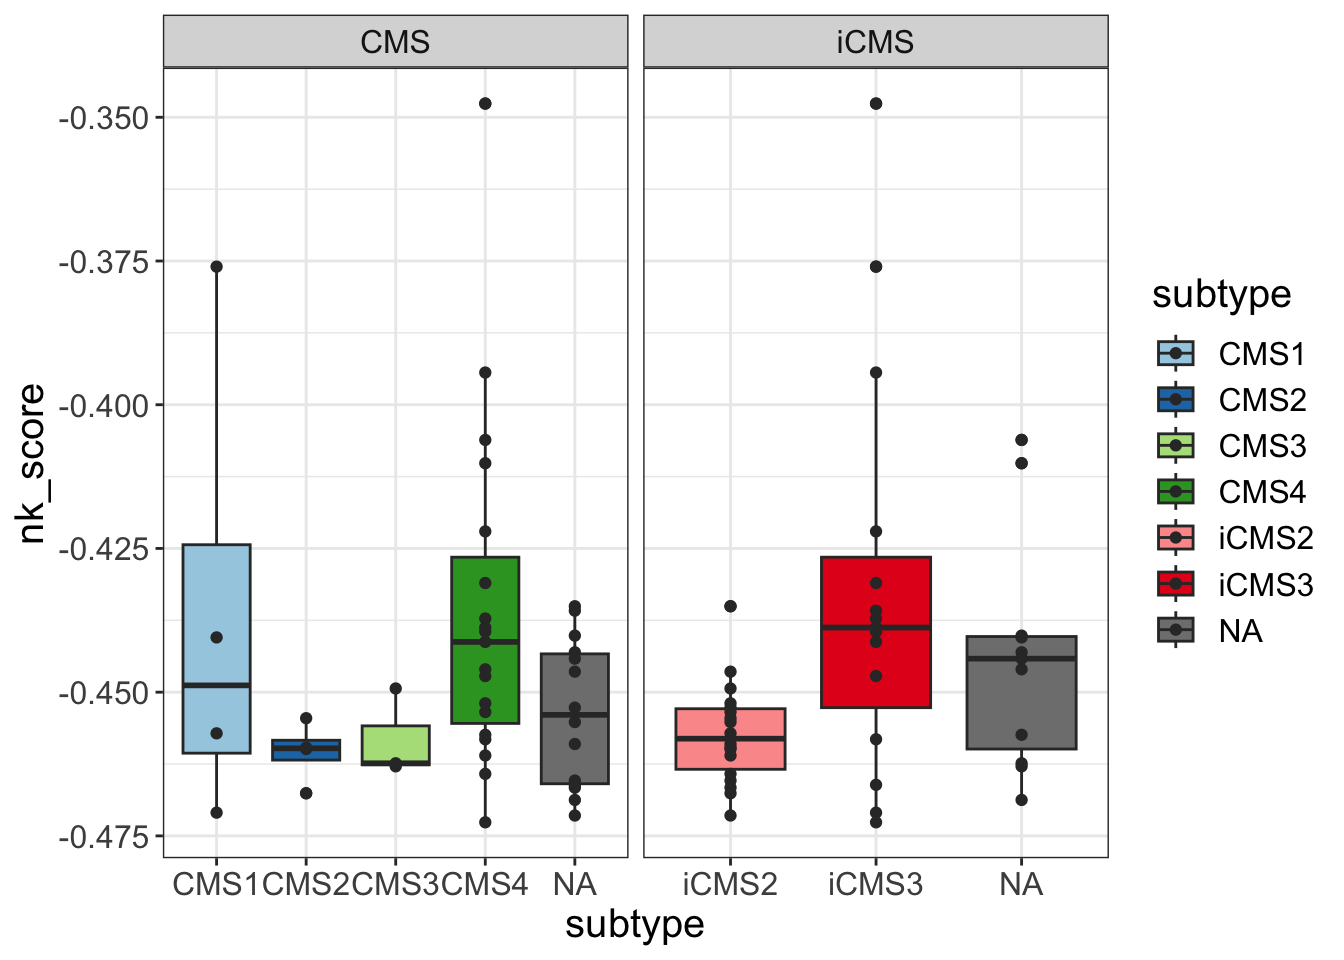
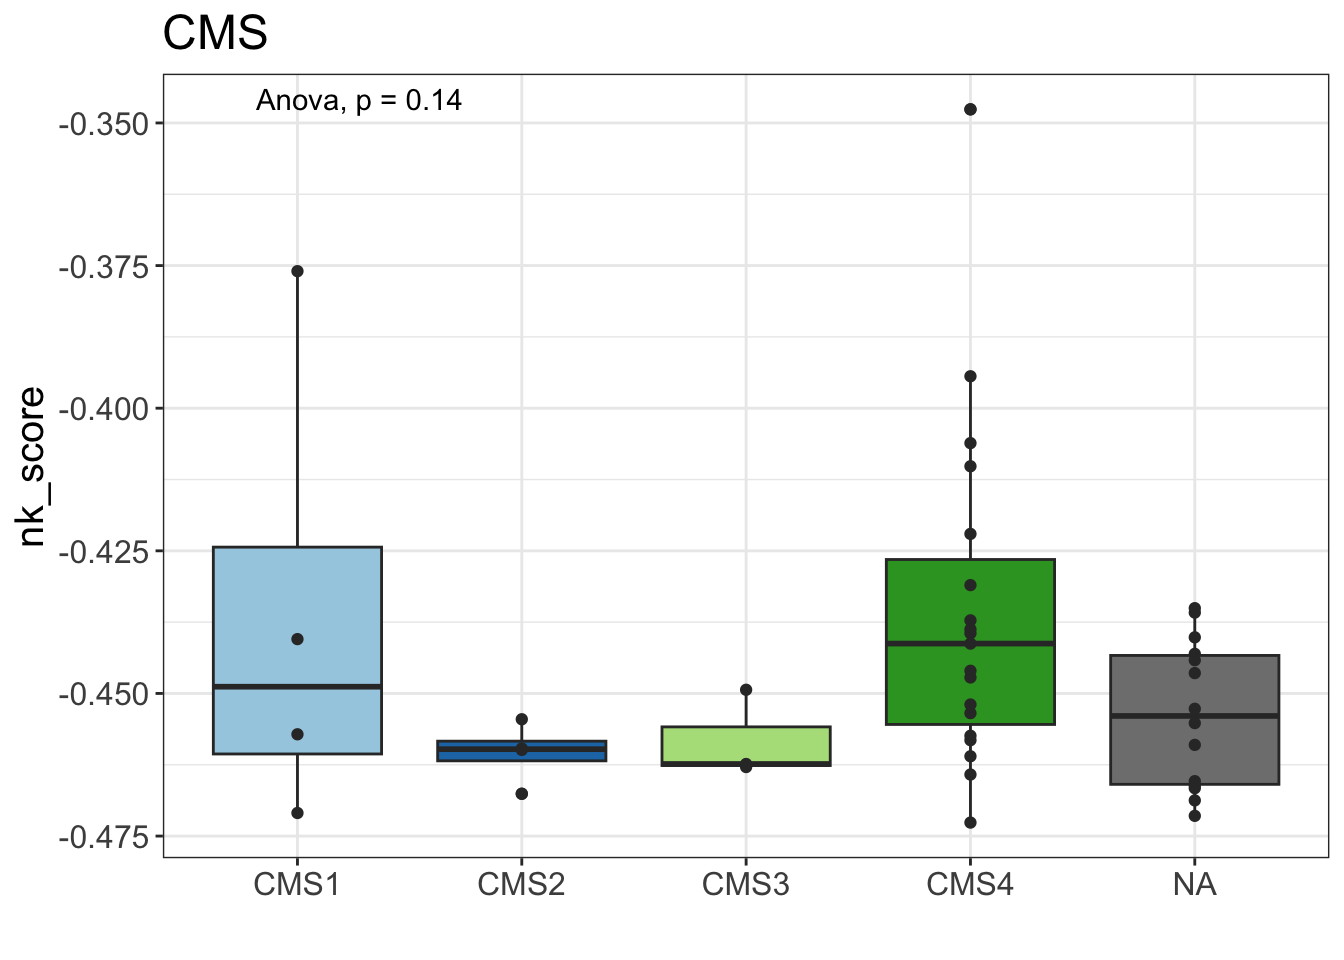
Build site.

diff --git a/docs/CRLM_Subtyping.html b/docs/CRLM_Subtyping.html
@@ -521,15 +521,15 @@ project makes it easier to run your code on other machines.</p>
 <div class="panel panel-default">
 <div class="panel-heading">
 <p class="panel-title">
-<a data-toggle="collapse" data-parent="#workflowr-checks" href="#strongRepositoryversionstrongahrefhttpsgithubcomrobinawagnerNKCRLMtree086dc970d61f95110a4d5944db50fdab08da7d3ftargetblank086dc97a">
+<a data-toggle="collapse" data-parent="#workflowr-checks" href="#strongRepositoryversionstrongahrefhttpsgithubcomrobinawagnerNKCRLMtree5f806afd4a0e3332845dca016ce51f0d60a3547atargetblank5f806afa">
 <span class="glyphicon glyphicon-ok text-success"
 aria-hidden="true"></span> <strong>Repository version:</strong>
-<a href="https://github.com/robin-a-wagner/NK_CRLM/tree/086dc970d61f95110a4d5944db50fdab08da7d3f" target="_blank">086dc97</a>
+<a href="https://github.com/robin-a-wagner/NK_CRLM/tree/5f806afd4a0e3332845dca016ce51f0d60a3547a" target="_blank">5f806af</a>
 </a>
 </p>
 </div>
 <div
[2 lines of base64/hex data omitted]
 class="panel-collapse collapse">
 <div class="panel-body">
 <p>
@@ -539,7 +539,7 @@ reproducibility.
 </p>
 <p>
 The results in this page were generated with repository version
-<a href="https://github.com/robin-a-wagner/NK_CRLM/tree/086dc970d61f95110a4d5944db50fdab08da7d3f" target="_blank">086dc97</a>.
+<a href="https://github.com/robin-a-wagner/NK_CRLM/tree/5f806afd4a0e3332845dca016ce51f0d60a3547a" target="_blank">5f806af</a>.
 See the <em>Past versions</em> tab to see a history of the changes made
 to the R Markdown and HTML files.
 </p>
@@ -611,6 +611,41 @@ Message
 </tr>
 </thead>
 <tbody>
+<tr>
+<td>
+Rmd
+</td>
+<td>
+<a href="https://github.com/robin-a-wagner/NK_CRLM/blob/5f806afd4a0e3332845dca016ce51f0d60a3547a/analysis/CRLM_Subtyping.Rmd" target="_blank">5f806af</a>
+</td>
+<td>
+Robin Wagner (UoM Laptop)
+</td>
+<td>
+2023-08-24
+</td>
+<td>
+Added stat tests to final subtype boxplots, had to pull apart into two
+graphs
+</td>
+</tr>
+<tr>
+<td>
+html
+</td>
+<td>
+<a href="https://rawcdn.githack.com/robin-a-wagner/NK_CRLM/82af4bd781dd552f2c31b7f9fd2876d0da574891/docs/CRLM_Subtyping.html" target="_blank">82af4bd</a>
+</td>
+<td>
+Robin Wagner (UoM Laptop)
+</td>
+<td>
+2023-08-24
+</td>
+<td>
+Build site.
+</td>
+</tr>
 <tr>
 <td>
 html
@@ -762,7 +797,8 @@ using the CMScaller package.</p>
 <pre class="r"><code>library(dplyr)
 library(CMScaller)
 library(ggplot2)
-library(RColorBrewer)</code></pre>
+library(RColorBrewer)
+library(ggpubr)</code></pre>
 <div id="prepare-data" class="section level3">
 <h3>Prepare data</h3>
 <p>Read in and prepare the raw counts data for the 58 samples.</p>
@@ -934,26 +970,26 @@ PDW486_LT        iCMS3 0.7684975 0.6398528 0.001000000 0.0017600</code></pre>
 <pre class="r"><code>plot_data &lt;- data.frame(sample = colnames(expr_norm$counts),
                         CMS = CMS$prediction,
                         iCMS = iCMS$prediction,
-                        nk_score = nk_score$score) %&gt;%
-  tidyr::gather(key = system, 
-         value = subtype,
-         c(&quot;CMS&quot;, &quot;iCMS&quot;)); head(plot_data)</code></pre>
-<pre><code>Warning: attributes are not identical across measure variables; they will be
-dropped</code></pre>
-<pre><code>       sample   nk_score system subtype
-1    JV388_LT -0.4628994    CMS    CMS3
-2    KG078_LT -0.4401634    CMS    &lt;NA&gt;
-3 PCC002_LT1a -0.4714542    CMS    &lt;NA&gt;
-4 PCC002_LT1b -0.4519359    CMS    CMS4
-5   PDO032_LT -0.4574141    CMS    CMS4
-6   PDW486_LT -0.4471963    CMS    CMS4</code></pre>
-<pre class="r"><code>ggplot(plot_data, aes(x = subtype, y = nk_score, fill = subtype)) + 
+                        nk_score = nk_score$score); head(plot_data)</code></pre>
+<pre><code>       sample  CMS  iCMS   nk_score
+1    JV388_LT CMS3  &lt;NA&gt; -0.4628994
+2    KG078_LT &lt;NA&gt;  &lt;NA&gt; -0.4401634
+3 PCC002_LT1a &lt;NA&gt; iCMS2 -0.4714542
+4 PCC002_LT1b CMS4 iCMS2 -0.4519359
+5   PDO032_LT CMS4  &lt;NA&gt; -0.4574141
+6   PDW486_LT CMS4 iCMS3 -0.4471963</code></pre>
+<pre class="r"><code>par(mfrow = c(2,1))
+
+ggplot(plot_data, aes(x = CMS, y = nk_score, fill = CMS)) + 
   geom_boxplot() + 
   geom_point(position = position_dodge(0.9), color = &quot;gray20&quot;) + 
-  facet_wrap(~system, scales = &quot;free_x&quot;) +
+  stat_compare_means(method = &quot;anova&quot;) +
   theme_bw() +
-  theme(text = element_text(size = 15)) +
-  scale_fill_manual(values = brewer.pal(8, &quot;Paired&quot;))</code></pre>
+  theme(text = element_text(size = 15),
+        legend.position = &quot;none&quot;) +
+  scale_fill_manual(values = brewer.pal(8, &quot;Paired&quot;)) +
+  labs(x = &quot;&quot;) +
+  ggtitle(&quot;CMS&quot;)</code></pre>
 <p><img src="figure/CRLM_Subtyping.Rmd/unnamed-chunk-11-1.png" width="672" style="display: block; margin: auto;" /></p>
 <p>
 <button type="button" class="btn btn-default btn-xs btn-workflowr btn-workflowr-fig" data-toggle="collapse" data-target="#fig-unnamed-chunk-11-1">
@@ -1003,6 +1039,17 @@ Robin Wagner (UoM Laptop)
 </table>
 </div>
 </div>
+<pre class="r"><code>ggplot(plot_data, aes(x = iCMS, y = nk_score, fill = iCMS)) + 
+  geom_boxplot() + 
+  geom_point(position = position_dodge(0.9), color = &quot;gray20&quot;) + 
+  stat_compare_means(method = &quot;t.test&quot;, comparisons = list(c(&quot;iCMS2&quot;, &quot;iCMS3&quot;))) +
+  theme_bw()  +
+  theme(text = element_text(size = 15),
+        legend.position = &quot;none&quot;) +
+  scale_fill_manual(values = brewer.pal(8, &quot;Paired&quot;)) +
+  labs(x = &quot;&quot;) +
+  ggtitle(&quot;iCMS&quot;)</code></pre>
+<p><img src="figure/CRLM_Subtyping.Rmd/unnamed-chunk-11-2.png" width="672" style="display: block; margin: auto;" /></p>
 <br>
 <p>
 <button type="button" class="btn btn-default btn-workflowr btn-workflowr-sessioninfo" data-toggle="collapse" data-target="#workflowr-sessioninfo" style="display: block;">
@@ -1030,25 +1077,27 @@ attached base packages:
 [1] stats     graphics  grDevices utils     datasets  methods   base     
 
 other attached packages:
-[1] edgeR_3.42.4       limma_3.56.2       RColorBrewer_1.1-3 ggplot2_3.4.3     
-[5] CMScaller_0.99.2   dplyr_1.1.2        workflowr_1.7.1   
+[1] edgeR_3.42.4       limma_3.56.2       ggpubr_0.6.0       RColorBrewer_1.1-3
+[5] ggplot2_3.4.3      CMScaller_0.99.2   dplyr_1.1.2        workflowr_1.7.1   
 
 loaded via a namespace (and not attached):
- [1] tidyr_1.3.0       sass_0.4.7        utf8_1.2.3        generics_0.1.3   
- [5] lattice_0.21-8    stringi_1.7.12    digest_0.6.33     magrittr_2.0.3   
- [9] evaluate_0.21     grid_4.3.1        fastmap_1.1.1     rprojroot_2.0.3  
-[13] jsonlite_1.8.7    processx_3.8.2    whisker_0.4.1     ps_1.7.5         
-[17] promises_1.2.1    httr_1.4.7        purrr_1.0.2       fansi_1.0.4      
-[21] scales_1.2.1      jquerylib_0.1.4   cli_3.6.1         rlang_1.1.1      
-[25] munsell_0.5.0     withr_2.5.0       cachem_1.0.8      yaml_2.3.7       
-[29] tools_4.3.1       colorspace_2.1-0  locfit_1.5-9.8    httpuv_1.6.11    
-[33] vctrs_0.6.3       R6_2.5.1          lifecycle_1.0.3   git2r_0.32.0     
-[37] stringr_1.5.0     fs_1.6.3          pkgconfig_2.0.3   callr_3.7.3      
-[41] pillar_1.9.0      bslib_0.5.1       later_1.3.1       gtable_0.3.4     
-[45] glue_1.6.2        Rcpp_1.0.11       highr_0.10        xfun_0.40        
-[49] tibble_3.2.1      tidyselect_1.2.0  rstudioapi_0.15.0 knitr_1.43       
-[53] farver_2.1.1      htmltools_0.5.6   labeling_0.4.2    rmarkdown_2.24   
-[57] compiler_4.3.1    getPass_0.2-2    </code></pre>
+ [1] gtable_0.3.4      xfun_0.40         bslib_0.5.1       processx_3.8.2   
+ [5] rstatix_0.7.2     lattice_0.21-8    callr_3.7.3       vctrs_0.6.3      
+ [9] tools_4.3.1       ps_1.7.5          generics_0.1.3    tibble_3.2.1     
+[13] fansi_1.0.4       highr_0.10        pkgconfig_2.0.3   lifecycle_1.0.3  
+[17] compiler_4.3.1    farver_2.1.1      stringr_1.5.0     git2r_0.32.0     
+[21] munsell_0.5.0     getPass_0.2-2     carData_3.0-5     httpuv_1.6.11    
+[25] htmltools_0.5.6   sass_0.4.7        yaml_2.3.7        later_1.3.1      
+[29] pillar_1.9.0      car_3.1-2         jquerylib_0.1.4   whisker_0.4.1    
+[33] tidyr_1.3.0       cachem_1.0.8      abind_1.4-5       tidyselect_1.2.0 
+[37] locfit_1.5-9.8    digest_0.6.33     stringi_1.7.12    purrr_1.0.2      
+[41] labeling_0.4.2    rprojroot_2.0.3   fastmap_1.1.1     grid_4.3.1       
+[45] colorspace_2.1-0  cli_3.6.1         magrittr_2.0.3    utf8_1.2.3       
+[49] broom_1.0.5       withr_2.5.0       scales_1.2.1      promises_1.2.1   
+[53] backports_1.4.1   rmarkdown_2.24    httr_1.4.7        ggsignif_0.6.4   
+[57] evaluate_0.21     knitr_1.43        rlang_1.1.1       Rcpp_1.0.11      
+[61] glue_1.6.2        rstudioapi_0.15.0 jsonlite_1.8.7    R6_2.5.1         
+[65] fs_1.6.3         </code></pre>
 </div>
 </div>
 </div>
